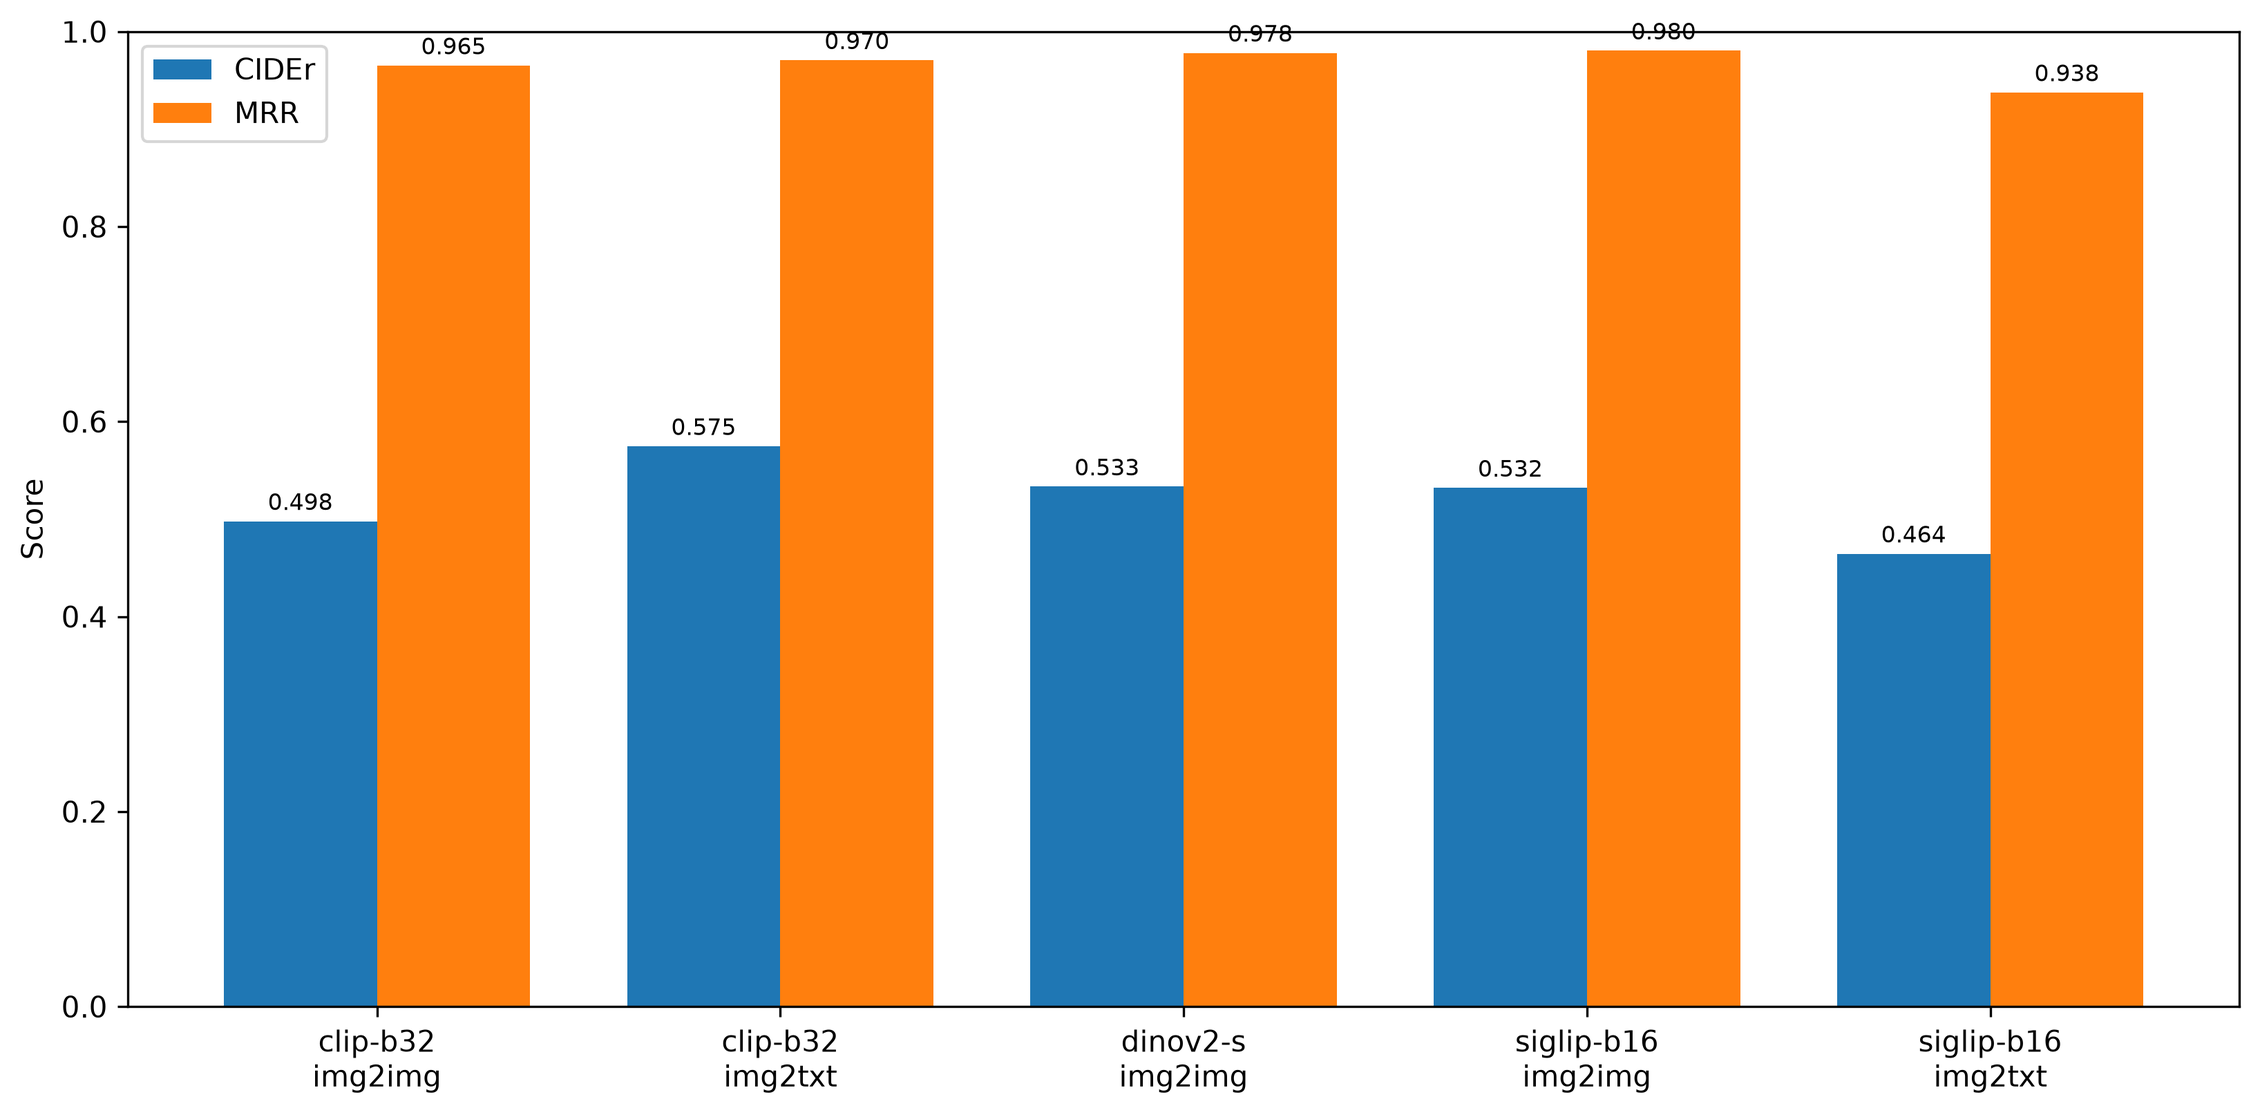
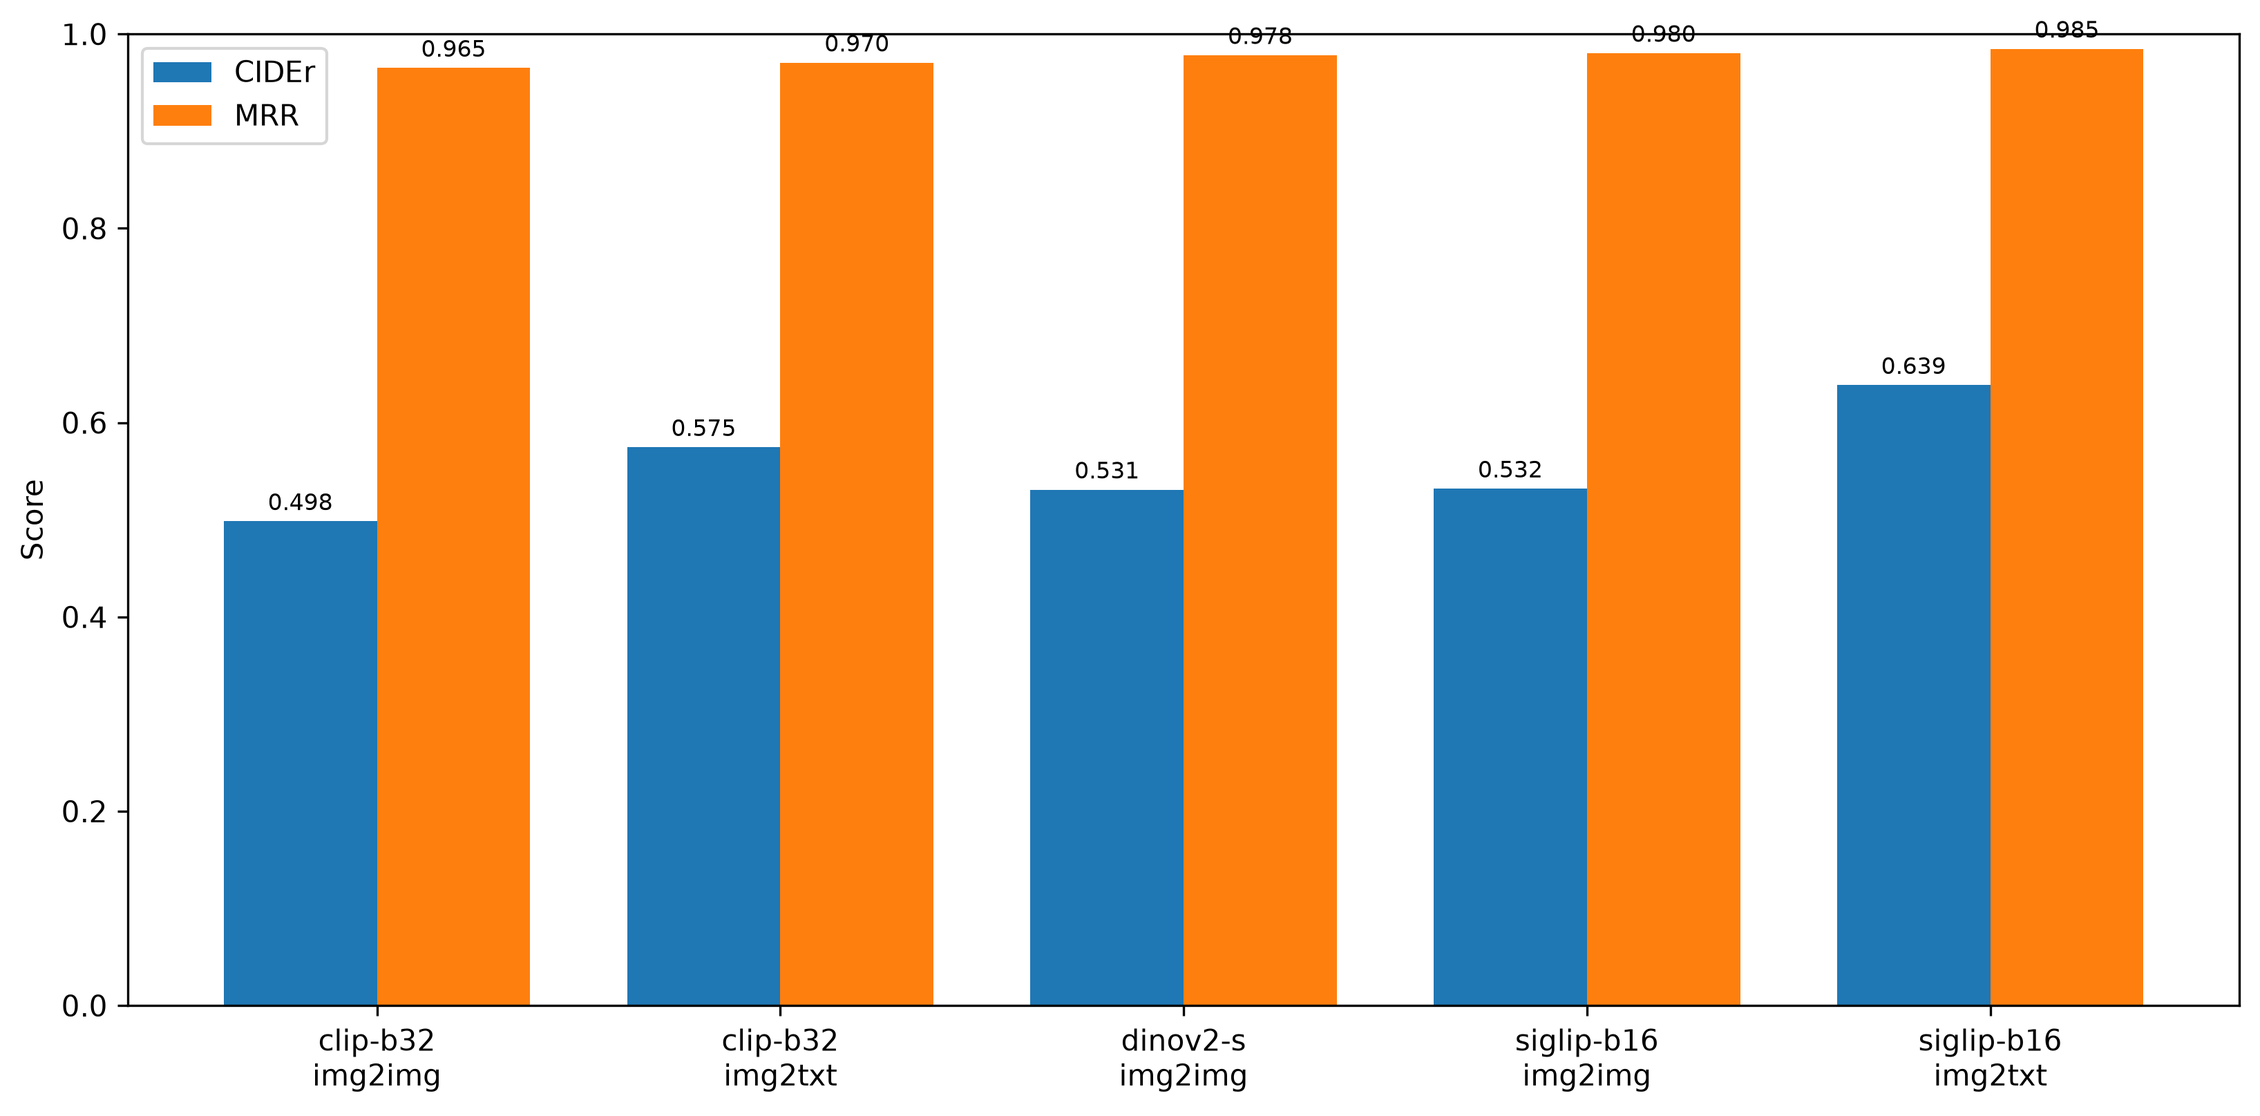
Official 1,000-image test: use SigLIP text embeddings with padding=max_length (notebook 04); document cause and PDF discrepancy

diff --git a/PHASE1_REPORT.md b/PHASE1_REPORT.md
@@ -12,7 +12,7 @@
 
 Phase 1 establishes a frozen, shared data foundation for comparative retrieval-augmented image-captioning research on MS COCO 2017. The implemented release contains 10,000 knowledge-base (KB) images with 50,000 captions, 100 validation images with 500 reference captions, and 100 test images with 500 reference captions. The pipeline constructs normalized images, captions, object and relational metadata, image and text embeddings, exact and approximate FAISS indexes, exploratory statistics, quality-control evidence, and a release manifest. Anti-leakage controls combine disjoint split construction, content-level audit checks, duplicate repair, near-duplicate screening, and an ID-level retrieval guard.
 
-Four retrieval configurations were evaluated in the first Phase 1 design, and the SigLIP extension added a fifth configuration. Validation nearest-neighbour CIDEr identified SigLIP image-to-text retrieval (0.7223) as the best implemented configuration; SigLIP image-to-image obtained 0.6735, followed by CLIP image-to-text (0.5584), DINOv2 image-to-image (0.5541), and CLIP image-to-image (0.5286). SigLIP image-to-image did not differ significantly from SigLIP image-to-text (Wilcoxon \(p=0.3023\)), whereas the CLIP image-to-text, DINOv2, and CLIP image-to-image comparisons were significant under the repository's four-comparison Bonferroni threshold of 0.0125. The test splits remained report-only. On the legacy 100-image test, SigLIP image-to-text obtained CIDEr 0.7064, also the highest value. The official final test set, however, is a 1,000-image COCO val2017 sample (disjoint from the KB, the validation split and the legacy test); there the ranking changes: CLIP image-to-text is highest (CIDEr 0.5746) and SigLIP image-to-text is lowest (0.4645), a discrepancy that is reported but was not used to re-select the encoder. The 100-image test of the frozen release g1-v1.1 is kept unchanged as a legacy set.
+Four retrieval configurations were evaluated in the first Phase 1 design, and the SigLIP extension added a fifth configuration. Validation nearest-neighbour CIDEr identified SigLIP image-to-text retrieval (0.7223) as the best implemented configuration; SigLIP image-to-image obtained 0.6735, followed by CLIP image-to-text (0.5584), DINOv2 image-to-image (0.5541), and CLIP image-to-image (0.5286). SigLIP image-to-image did not differ significantly from SigLIP image-to-text (Wilcoxon \(p=0.3023\)), whereas the CLIP image-to-text, DINOv2, and CLIP image-to-image comparisons were significant under the repository's four-comparison Bonferroni threshold of 0.0125. The test splits remained report-only. On the legacy 100-image test, SigLIP image-to-text obtained CIDEr 0.7064, also the highest value. The official final test set is a 1,000-image COCO val2017 sample (disjoint from the KB, the validation split and the legacy test); there too SigLIP image-to-text is highest (CIDEr 0.6385), followed by CLIP image-to-text (0.5746). An earlier version of this report showed a different ranking (SigLIP image-to-text lowest, 0.4645), which is reproduced exactly by SigLIP text embeddings recomputed with padding=True instead of the padding="max_length" setting of notebook 04 (Section 11.3). The encoder was selected on validation and was not re-selected on the test. The 100-image test of the frozen release g1-v1.1 is kept unchanged as a legacy set.
 
 **Keywords:** MS COCO, image captioning, retrieval-augmented generation, CLIP, DINOv2, SigLIP, Sentence-BERT, FAISS, data leakage.
 
@@ -418,7 +418,7 @@ The SigLIP image-to-text 10-fold cross-validation standard deviation is 0.1913, 
 | SigLIP image-to-image | 0.95 | 0.99 / 1.00 | 0.95 / 0.956 / 0.953 | 0.9717 | 0.6216 | 0.0420 |
 | SigLIP image-to-text | 0.98 | 1.00 / 1.00 | 0.98 / 0.964 / 0.972 | 0.9883 | **0.7064** | 0.0420 |
 
-On the legacy 100-image test, Table 9 is consistent with the validation selection; on the larger official test the ranking changes (Section 11.3). SigLIP image-to-text remains best at test CIDEr 0.7064, a difference of 0.0564 from the second-best CLIP image-to-text configuration. Its test recall@1 is 0.98 and MRR is 0.9883. The random-caption baseline is 0.0420.
+On the legacy 100-image test, Table 9 is consistent with the validation selection, and so is the larger official test (Section 11.3). SigLIP image-to-text remains best at test CIDEr 0.7064, a difference of 0.0564 from the second-best CLIP image-to-text configuration. Its test recall@1 is 0.98 and MRR is 0.9883. The random-caption baseline is 0.0420.
 
 The repository reports no test-set significance testing and no test-based model-selection correction. This is a deliberate methodological constraint. The test set is useful as an independent final check, but should not be used to revise the validation winner or to search for a new configuration.
 
@@ -438,26 +438,28 @@ The repository reports no test-set significance testing and no test-based model-
 
 | Configuration | Recall@1 | Recall@5/@10 | Precision@1/@5/@10 | MRR | CIDEr | Random CIDEr |
 |---|---:|---:|---:|---:|---:|---:|
-| CLIP image-to-image | 0.943 | 0.993 / 0.996 | 0.943 / 0.930 / 0.921 | 0.9652 | 0.4978 | 0.0270 |
-| CLIP image-to-text | 0.952 | 0.992 / 0.996 | 0.952 / 0.949 / 0.947 | 0.9705 | **0.5746** | 0.0270 |
-| DINOv2 image-to-image | 0.965 | 0.994 / 0.996 | 0.965 / 0.954 / 0.950 | 0.9781 | 0.5333 | 0.0270 |
+| CLIP image-to-image | 0.943 | 0.993 / 0.996 | 0.943 / 0.930 / 0.921 | 0.9651 | 0.4984 | 0.0270 |
+| CLIP image-to-text | 0.952 | 0.992 / 0.996 | 0.952 / 0.949 / 0.947 | 0.9705 | 0.5746 | 0.0270 |
+| DINOv2 image-to-image | 0.965 | 0.994 / 0.996 | 0.965 / 0.954 / 0.950 | 0.9781 | 0.5309 | 0.0270 |
 | SigLIP image-to-image | 0.966 | 0.996 / 0.999 | 0.966 / 0.961 / 0.955 | 0.9804 | 0.5320 | 0.0270 |
-| SigLIP image-to-text | 0.891 | 0.996 / 0.998 | 0.891 / 0.866 / 0.848 | 0.9376 | 0.4645 | 0.0270 |
+| SigLIP image-to-text | 0.973 | 0.999 / 1.000 | 0.973 / 0.966 / 0.963 | 0.9847 | **0.6385** | 0.0270 |
 
-**The ranking differs from validation and from the legacy test.** SigLIP image-to-text, the validation winner (validation CIDEr 0.7223), has the *lowest* CIDEr of the five configurations on the official test (0.4645), whereas CLIP image-to-text is highest (0.5746). SigLIP image-to-text also has the lowest Recall@1 (0.891) and MRR (0.9376), while SigLIP and DINOv2 image-to-image have the highest Recall@1 (0.965–0.966). All five configurations remain far above the random-caption baseline (0.0270).
+**The ranking agrees with validation and with the legacy test.** SigLIP image-to-text, the validation winner (validation CIDEr 0.7223), has the highest CIDEr of the five configurations on the official test (0.6385), followed by CLIP image-to-text (0.5746). It also has the highest Recall@1 (0.973) and MRR (0.9847). All five configurations remain far above the random-caption baseline (0.0270).
+
+**Provenance of these figures.** Table 10 uses SigLIP text embeddings computed with padding="max_length" (64 tokens), as in notebook 04. An earlier version of Table 10 (SigLIP image-to-text: Recall@1 0.891, MRR 0.9376, CIDEr 0.4645, lowest of the five; CLIP image-to-text highest at 0.5746) used text embeddings recomputed by scripts/recover_kb_embeddings.py with padding=True; we measured that this setting reproduces exactly those earlier figures (mean cosine similarity between the two sets of knowledge-base text embeddings: 0.4842). Which of the two sets matches the SHA256 recorded in the manifest is not established. CLIP image-to-image (0.4978 to 0.4984) and DINOv2 image-to-image (0.5333 to 0.5309) also changed slightly; the cause of these small differences is not established. The PDF version of this report (Section 11.3) predates this correction, still shows the earlier figures, and must be recompiled.
 
 Interpretation and caveats:
 
-- The validation set has only 100 images and the SigLIP image-to-text 10-fold standard deviation was large (0.1913, Section 11.1), so a validation winner that does not carry over to a 10x larger test is plausible; this report does not claim otherwise.
+- The ranking on the official test agrees with validation and with the legacy test; the earlier inverted ranking is reproduced by the text-embedding padding setting (see above), which suggests that it is not a failure of the validation selection to generalise. The validation set still has only 100 images and the SigLIP image-to-text 10-fold standard deviation was large (0.1913, Section 11.1), so small differences should not be over-interpreted.
 - The repository stores aggregate metrics only, not per-image scores for the 1,000-image test, so **no significance test is reported** for the differences in Table 10. Differences of a few hundredths of CIDEr (e.g. DINOv2 vs SigLIP image-to-image) must not be interpreted as ordering.
 - The frozen primary encoder of release g1-v1.1 (`siglip-b16`) was selected by the validation protocol and is not changed after seeing test results (that would be test-set selection). Users of the release should be aware of Table 10 and choose their encoder for their own technique through their own validation protocol; CLIP and DINOv2 embeddings are provided for the same images.
 - Retrieval relevance here uses the project's strict Jaccard-based criterion and CIDEr is computed on the nearest-neighbour caption only; no generative model is involved in Phase 1.
 
 ## 11.4 Interpretation
 
-Several conclusions are statistically and descriptively supported, with qualifications. SigLIP image-to-text is the validation winner and the leader on the legacy 100-image test, but not on the official 1,000-image test (Section 11.3). SigLIP image-to-image is not statistically distinguishable from the winner on validation data, so the empirical evidence does not justify treating the 0.0487 validation CIDEr difference as established. CLIP image-to-text, DINOv2 image-to-image, and CLIP image-to-image are each significantly below SigLIP image-to-text under the repository's Bonferroni threshold. A random caption baseline remains substantially lower.
+Several conclusions are statistically and descriptively supported, with qualifications. SigLIP image-to-text is the validation winner and the leader on both the legacy 100-image test and the official 1,000-image test (Section 11.3). SigLIP image-to-image is not statistically distinguishable from the winner on validation data, so the empirical evidence does not justify treating the 0.0487 validation CIDEr difference as established. CLIP image-to-text, DINOv2 image-to-image, and CLIP image-to-image are each significantly below SigLIP image-to-text under the repository's Bonferroni threshold. A random caption baseline remains substantially lower.
 
-No claim is made that the comparison establishes general superiority of SigLIP across all retrieval settings. The sample has only 100 validation images, 100 legacy test images (and 1,000 official test images without per-image scores or significance tests), one run per configuration in the frozen artifacts, and a nearest-neighbour caption evaluation protocol. Consistency on the legacy test is supportive but not sufficient for broad generalization, and the larger official test does not reproduce the validation ranking.
+No claim is made that the comparison establishes general superiority of SigLIP across all retrieval settings. The sample has only 100 validation images, 100 legacy test images (and 1,000 official test images without per-image scores or significance tests), one run per configuration in the frozen artifacts, and a nearest-neighbour caption evaluation protocol. Consistency on the legacy and official tests is supportive but not sufficient for broad generalization, and the official test has no per-image scores or significance tests.
 
 # 12. Reproducibility and Dataset Freezing
 

diff --git a/RELEASE_NOTES.md b/RELEASE_NOTES.md
@@ -28,13 +28,12 @@ large binary files that are not versioned in Git.
     sha256sum -c SHA256SUMS.txt                # Windows: certutil -hashfile <file> SHA256
     python scripts/qc_test_1000.py             # the SKIP checks now run
 
-Embeddings are L2-normalised float32. Notes on the encoder choice on the official test
-are in `README.md` and in section 11.3 of `reports/phase1_technical_report.pdf`.
+Embeddings are L2-normalised float32. Notes on the encoder choice and on the corrected official-test figures are in `README.md` and `PHASE1_REPORT.md` (section 11.3); the PDF report predates the correction.
 
 ## Known deviations (reproducibility)
 
 - Embeddings and indexes restored from the original working copy (rag_preproc) were compared with the frozen manifest (read-only check, verify_manifest.py). CLIP, DINOv2 and SBERT embeddings and the CLIP/DINOv2 indexes match (22 embedding files ok, 6 index files ok). The 4 SigLIP embedding files (kb_img, kb_txt, val_img, test_img) and the 3 SigLIP indexes (flat, hnsw, txt_flat) do NOT match the manifest; the cause is unknown (SIGLIP_ENV_NOTE.txt mentions Python 3.13.3 versus 3.13.7 in the manifest, which is not proven to be the cause). On the first 20 rows, SigLIP kb_txt matches a recomputation with padding="max_length" (64 tokens), as in notebook 04. The manifest and index_report.json were not modified; bit-for-bit SigLIP reproducibility is therefore not guaranteed.
-- Official 1,000-image test re-evaluation (scripts/evaluate_test_1000.py) with locally computed test embeddings: CIDEr is identical for CLIP img->txt (0.5746) and SigLIP img->img (0.5320), and within 0.0023 for CLIP img->img (0.4978 vs 0.4984) and DINOv2 img->img (0.5333 vs 0.5309). SigLIP img->txt differs: 0.6385 (Recall@1 0.973, MRR 0.9847) versus 0.4645 (Recall@1 0.891, MRR 0.9376) in the committed results. The cause is not established. The committed results and the encoder selected on validation (siglip-b16) were left unchanged.
+- Official 1,000-image test (scripts/evaluate_test_1000.py): the committed results (experiments/test_1000_val2017/results/encoder_comparison_test_1000.csv/.json/.png) were REPLACED in this release by a re-evaluation that uses SigLIP text embeddings computed with padding="max_length" (64 tokens), as in notebook 04. SigLIP img->txt: CIDEr 0.6385, Recall@1 0.973, MRR 0.9847, the highest of the five and consistent with validation (0.7223) and the legacy 100-image test (0.7064). The earlier committed figures (CIDEr 0.4645, Recall@1 0.891, MRR 0.9376, lowest of the five; CLIP img->txt highest at 0.5746) are reproduced exactly by SigLIP kb_txt embeddings computed with padding=True, which is what scripts/recover_kb_embeddings.py does (measured: mean cosine similarity between the two kb_txt sets 0.4842, 0 of 50,000 rows above 0.9999). Which of the two sets matches the SHA256 in the manifest is NOT established; the max_length set follows notebook 04. Other configurations: CLIP img->txt (0.5746) and SigLIP img->img (0.5320) are identical; CLIP img->img (0.4978 -> 0.4984) and DINOv2 img->img (0.5333 -> 0.5309) changed slightly, cause not established. The latency columns were re-measured and differ (machine-dependent). The encoder selected on validation (siglip-b16) was not changed. The PDF report (reports/phase1_technical_report.pdf, section 11.3) predates this correction, still shows the earlier figures (SigLIP img->txt 0.4645, lowest) and must be recompiled.
 - 11 of the 10,200 normalised RGB images (all in the knowledge base, narrow images 207-316 x 640 px) differ from the manifest although the raw files are identical (sha256_raw). The cause is unknown.
 - artifacts/eda was restored to the g1-v1.1 state (commit 15cb295 had regenerated it afterwards); its version label therefore reads g1-v1.0 in EDA_REPORT.md.
 - The official 1,000-image test was confirmed orally by the instructor only (no written confirmation).

diff --git a/README.md b/README.md
@@ -53,18 +53,14 @@ Nearest-neighbour caption retrieval, CIDEr against the 5 references
 
 | Configuration | Recall@1 | MRR | CIDEr |
 |---|---:|---:|---:|
-| CLIP image-to-text | 0.952 | 0.970 | **0.575** |
+| CLIP image-to-text | 0.952 | 0.970 | 0.575 |
 | CLIP image-to-image | 0.943 | 0.965 | 0.498 |
-| DINOv2 image-to-image | 0.965 | 0.978 | 0.533 |
+| DINOv2 image-to-image | 0.965 | 0.978 | 0.531 |
 | SigLIP image-to-image | 0.966 | 0.980 | 0.532 |
-| SigLIP image-to-text | 0.891 | 0.938 | 0.464 |
+| SigLIP image-to-text | 0.973 | 0.985 | **0.639** |
 | Random-caption baseline | | | 0.027 |
 
-Note: SigLIP image-to-text was the validation winner (100 images, CIDEr 0.722) but
-is the lowest of the five on the larger 1,000-image test. The configuration was
-**not** re-selected on the test set (that would be test-set tuning); the
-discrepancy is reported and discussed in the technical report
-(`reports/phase1_technical_report.pdf`, section "Final test reporting").
+Note: SigLIP image-to-text was the validation winner (100 images, CIDEr 0.722) and is also the best of the five on the 1,000-image test (CIDEr 0.639). These figures use SigLIP text embeddings computed with `padding="max_length"` (64 tokens), as in notebook 04. An earlier version of this table (SigLIP image-to-text CIDEr 0.464, Recall@1 0.891, MRR 0.938, lowest of the five; CLIP image-to-text highest) came from SigLIP text embeddings recomputed with `scripts/recover_kb_embeddings.py`, which uses `padding=True`; we measured that this setting reproduces exactly those earlier figures. Which of the two text-embedding sets matches the SHA256 recorded in `artifacts/manifest.json` is not established. CLIP image-to-image (0.4984 vs 0.4978 earlier) and DINOv2 image-to-image (0.5309 vs 0.5333) also changed slightly; the cause of these small differences is not established. The technical report PDF (`reports/phase1_technical_report.pdf`, section "Final test reporting") predates this correction, still shows the earlier figures, and must be recompiled. The encoder was selected on validation and was not re-selected on the test set. Details: `RELEASE_NOTES.md`.
 
 ## Repository structure
 

diff --git a/experiments/test_1000_val2017/qc/qc_report_test_1000.md b/experiments/test_1000_val2017/qc/qc_report_test_1000.md
@@ -31,7 +31,7 @@
 | 25 | PASS | frozen file unchanged: artifacts/splits/kb.json | content identical (hash compared modulo LF/CRLF line endings) |
 | 26 | PASS | frozen file unchanged: reports/tables/encoder_comparison_test.csv | content identical (hash compared modulo LF/CRLF line endings) |
 | 27 | PASS | results cover 5 configurations x 1000 queries |  |
-| 28 | PASS | every configuration beats the random-caption baseline (CIDEr) | clip-b32/img2img=0.498; clip-b32/img2txt=0.575; dinov2-s/img2img=0.533; siglip-b16/img2img=0.532; siglip-b16/img2txt=0.464 |
+| 28 | PASS | every configuration beats the random-caption baseline (CIDEr) | clip-b32/img2img=0.498; clip-b32/img2txt=0.575; dinov2-s/img2img=0.531; siglip-b16/img2img=0.532; siglip-b16/img2txt=0.639 |
 | 29 | PASS | embeddings clip-b32/test_1000 shape/dtype | shape=(1000, 512) |
 | 30 | PASS | embeddings clip-b32/test_1000 finite and L2-normalised |  |
 | 31 | PASS | embeddings clip-b32/test_1000 IDs match split |  |
